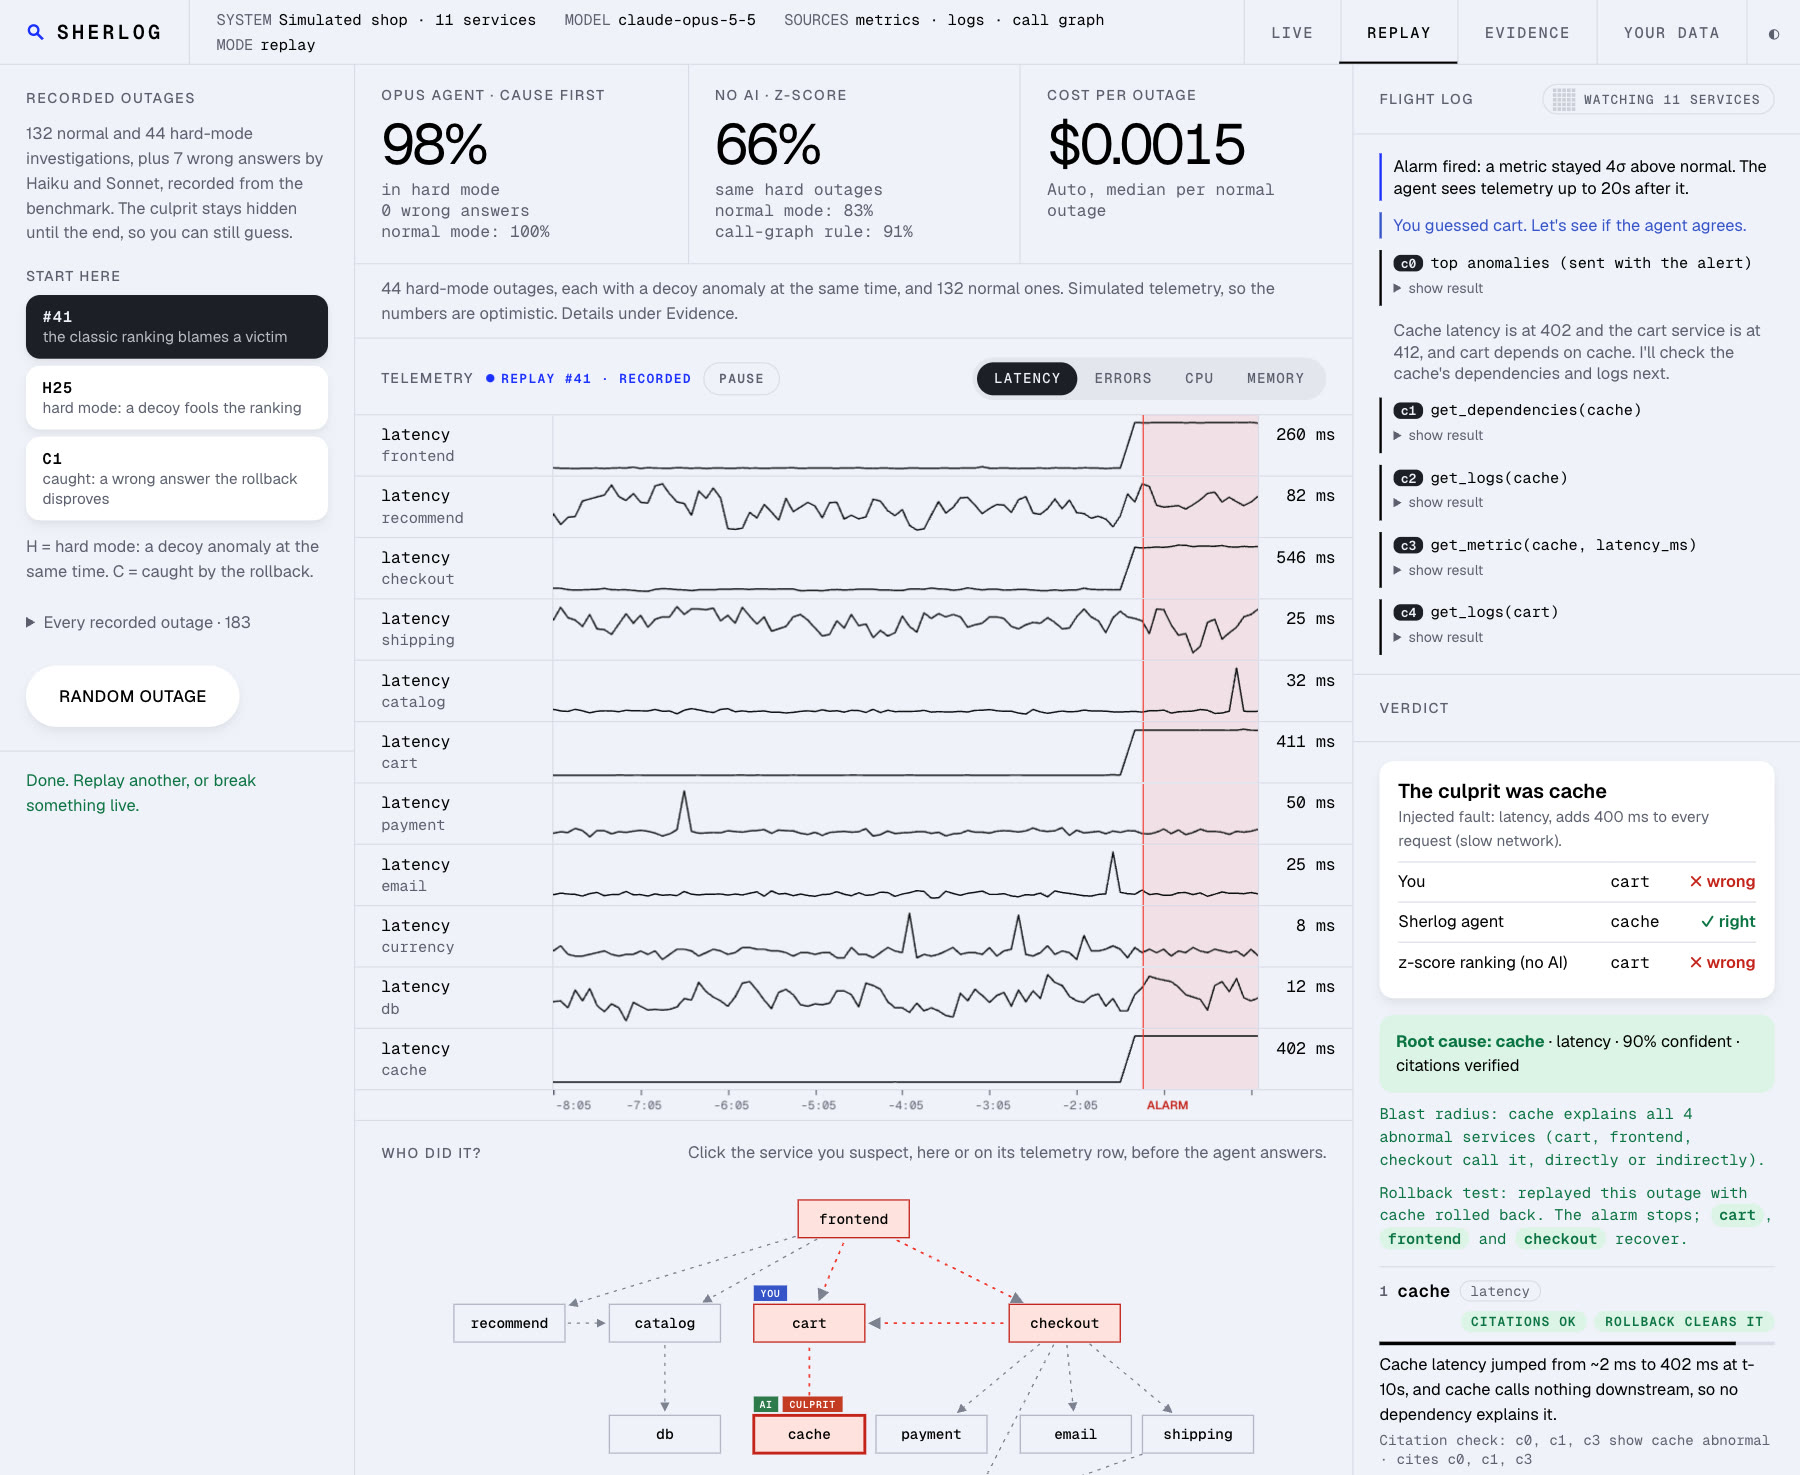
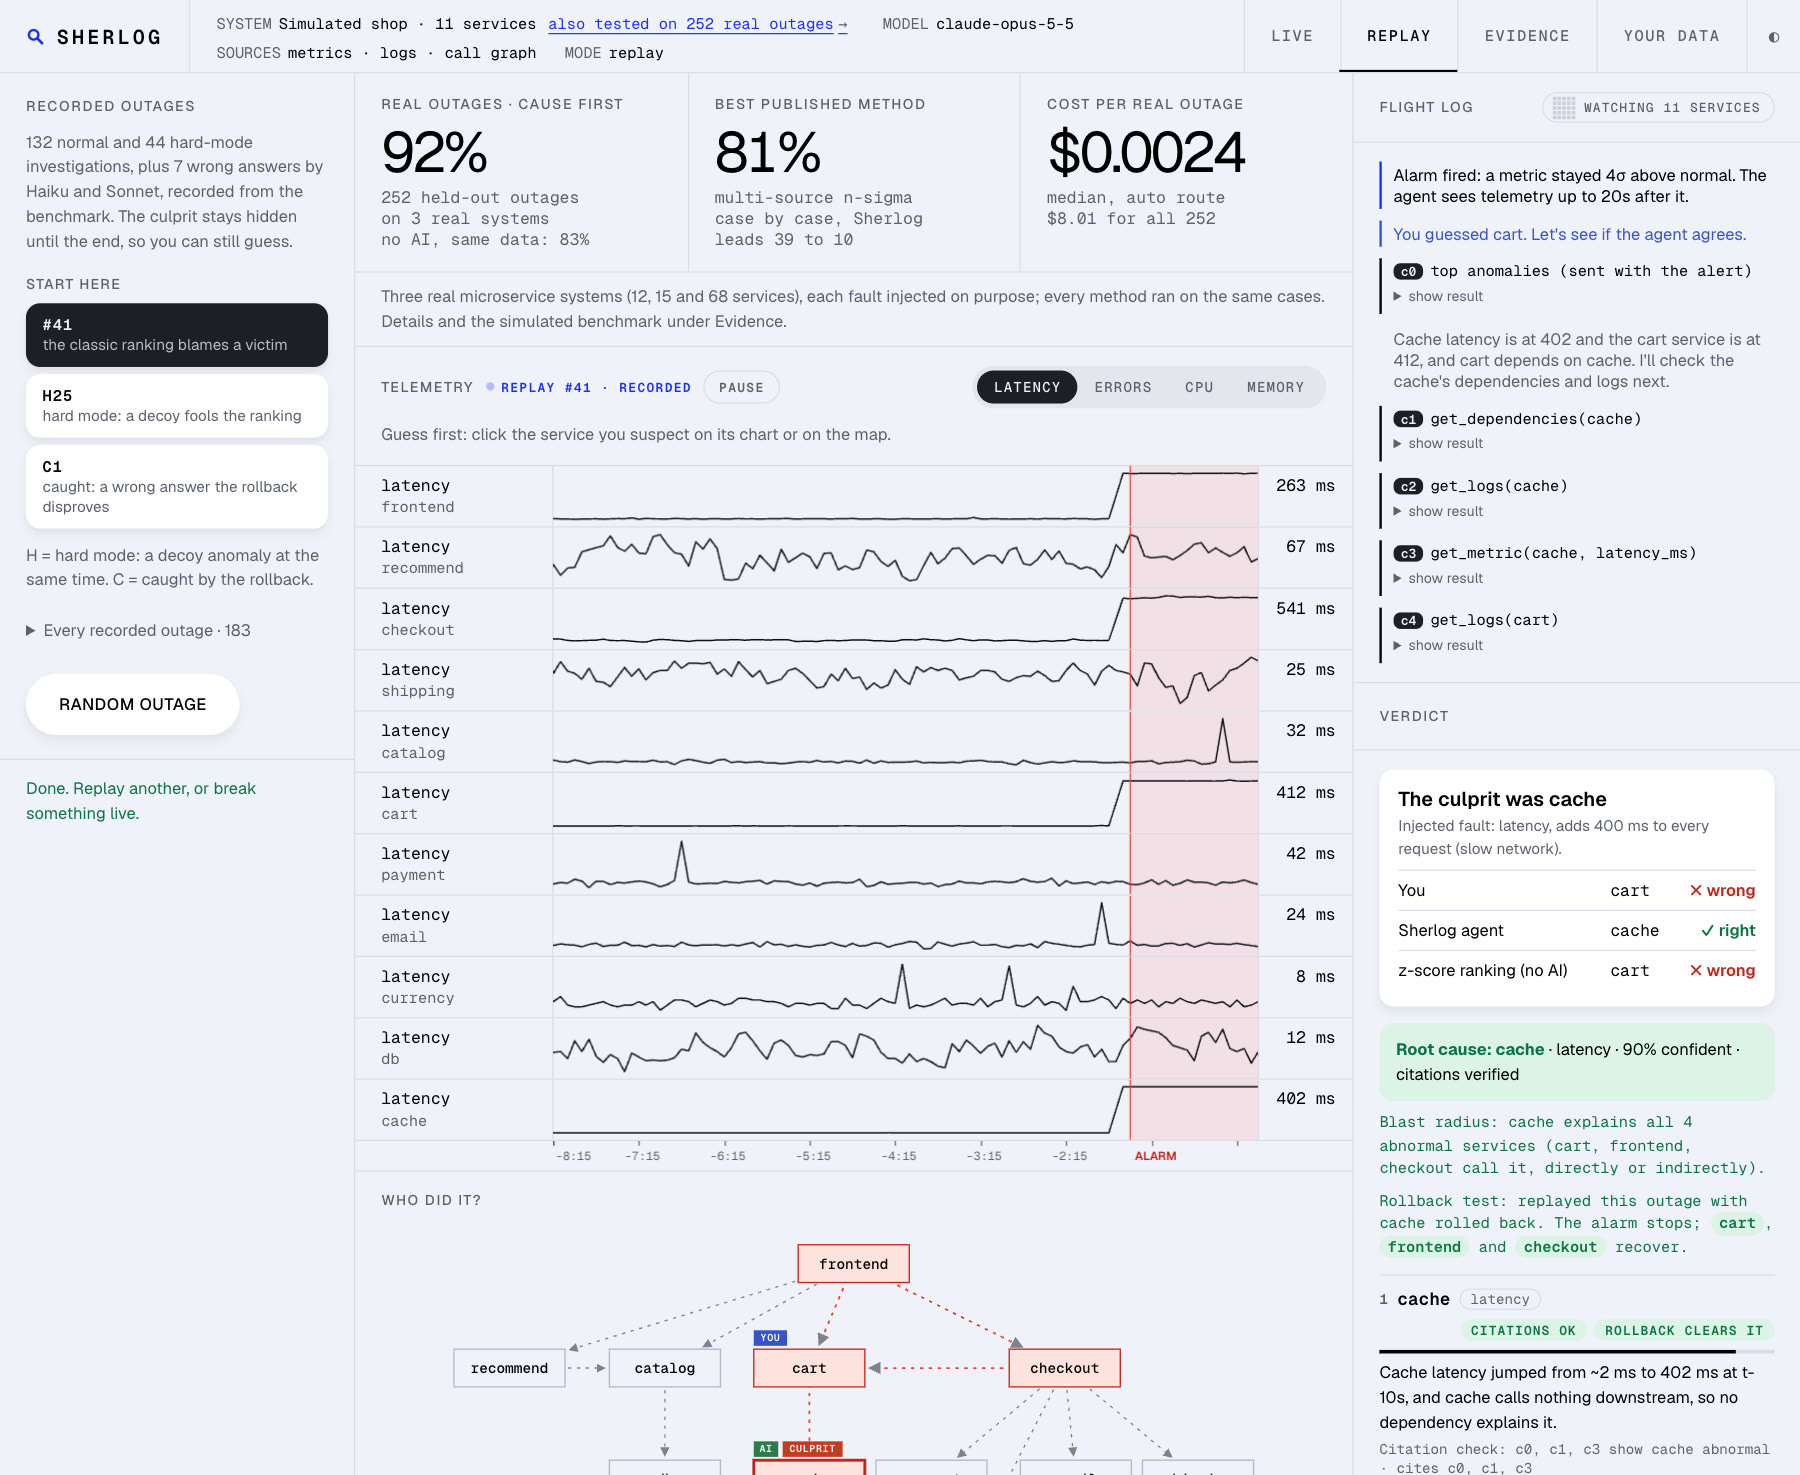
docs: recapture the console image with the real-outage stats

diff --git a/README.md b/README.md
@@ -181,7 +181,7 @@ flowchart LR
 4. **Answer, or hand over.** If suspect #1's citations are verified and it is at least 80% confident, Sherlog answers and drafts the ticket note and the customer update. Anything less goes to a human; on the auto route, a doubtful Haiku answer goes to a fresh Opus investigation first.
 5. **Check the answer.** The **blast-radius check** asks whether the answer explains every service that stayed abnormal: each must be the answer or one of its callers, and only slowness and failures travel to callers. The **rollback replay** re-runs the outage from its seed with the answer rolled back and reports whether the alarm stops and which services recover. In hard mode the decoy's harmless CPU or memory anomaly can keep the alarm on, so the replay also counts as proof when every latency and error alarm ends. Both results are shown next to the verdict and neither changes it, with one exception: on the auto route, a Haiku answer that another service would explain better goes to Opus first.
 
-<p align="center"><img src="media/console.jpg" alt="The console after replaying outage 41, its header reading MODE replay: telemetry for all eleven services with the alarm marked, the flight log of the agent's tool calls c0 to c4, the scoreboard (you guessed cart, wrong; the Sherlog agent said cache, right; the z-score ranking said cart, wrong), the verdict with root cause cache at 90% confidence and its citations verified, the blast-radius line, the rollback line (with cache rolled back the alarm stops, and cart, frontend and checkout recover), and the service map tagged YOU, AI and CULPRIT." width="900"></p>
+<p align="center"><img src="media/console.jpg" alt="The console after replaying outage 41, its header reading MODE replay. Its stats lead with the real outages: 92% cause first on 252 held-out outages, 81% for the best published method, $0.0024 a real outage. Below: telemetry for all eleven services with the alarm marked, the flight log of the agent's tool calls c0 to c4, the scoreboard (you guessed cart, wrong; the Sherlog agent said cache, right; the z-score ranking said cart, wrong), the verdict with root cause cache at 90% confidence and its citations verified, the blast-radius line, the rollback line (with cache rolled back the alarm stops, and cart, frontend and checkout recover), and the service map tagged YOU, AI and CULPRIT." width="900"></p>
 <p align="center"><em>Outage #41 in the console: the slowdown in <code>cache</code> makes cart, checkout and frontend look broken too. The z-score ranking blames <code>cart</code>; the agent names <code>cache</code>, and rolling <code>cache</code> back clears the outage.</em></p>
 
 ---
